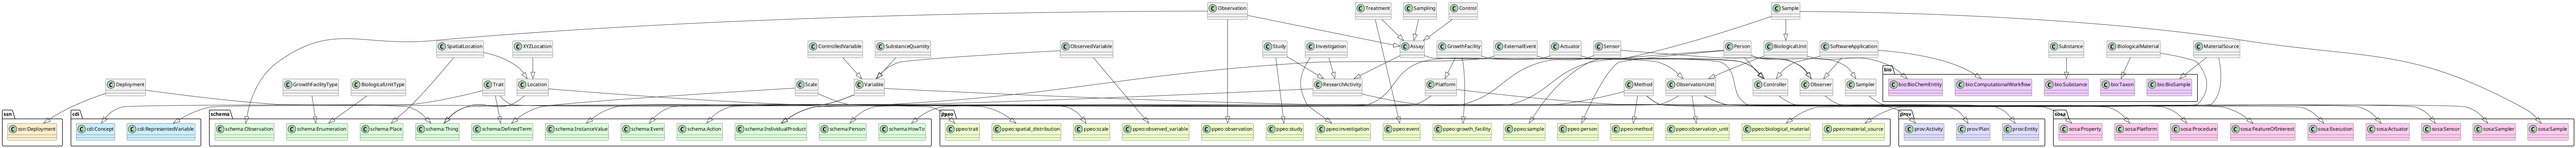
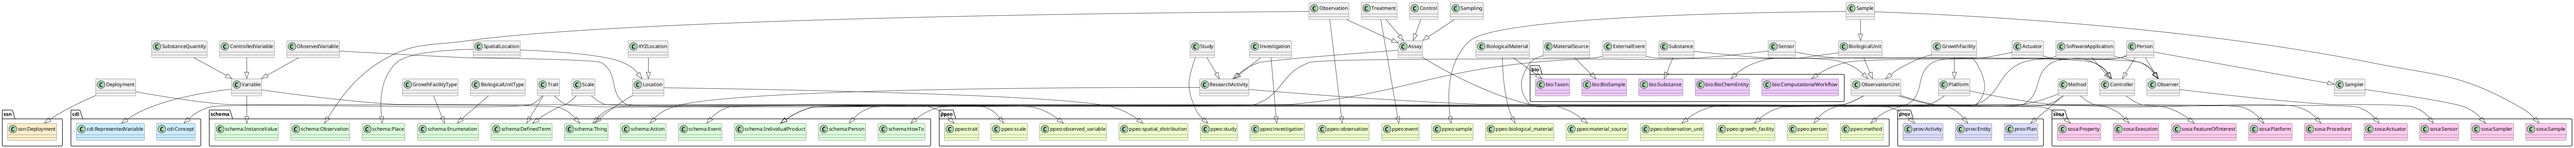
Substance as ObservationUnit

diff --git a/appn-schema.html b/appn-schema.html
@@ -130,7 +130,7 @@
         <h2 id="ObservationUnit">Class: ObservationUnit</h2>
         <div class="uri"><a href="https://schema.plantphenomics.org.au/ObservationUnit" target="_blank">https://schema.plantphenomics.org.au/ObservationUnit</a></div>
         <img src="image/ttl_appn_ObservationUnit.png"/>
-        <div class="description"><b>ObservationUnit:</b> An entity for which a Study collects data or controls the environment and other parameters. ObservationUnits may be BiologicalUnits or GrowthFacilities.</div>
+        <div class="description"><b>ObservationUnit:</b> An entity for which a Study collects data or controls the environment and other parameters. ObservationUnits may be BiologicalUnits, GrowthFacilities or Substances.</div>
         <h3>Superclasses</h3>
         <div class="parent"><a href="https://schema.org/Thing">https://schema.org/Thing</a></div>
         <div class="parent"><a href="http://www.w3.org/ns/prov#Entity">http://www.w3.org/ns/prov#Entity</a></div>
@@ -146,6 +146,7 @@
         <div class="property"><a href="#Location">Location</a> <b>isLocationWithin</b> ObservationUnit</div>
         <div class="description">&nbsp;&nbsp;&nbsp;&nbsp;Specifies that a location is a position within an ObservationUnit.</div>
         <h3>Subclasses</h3>
+        <div class="child"><a href="#Substance">Substance</a></div>
         <div class="child"><a href="#GrowthFacility">GrowthFacility</a></div>
         <div class="child"><a href="#BiologicalUnit">BiologicalUnit</a></div>
         <h2 id="Trait">Class: Trait</h2>
@@ -357,6 +358,7 @@
         <img src="image/ttl_appn_Substance.png"/>
         <div class="description"><b>Substance:</b> A biological or chemical entity used in a Treatment assay or referenced in a SubstanceQuantity.</div>
         <h3>Superclasses</h3>
+        <div class="parent"><a href="#ObservationUnit">ObservationUnit</a></div>
         <div class="parent"><a href="https://bioschemas.org/Substance">https://bioschemas.org/Substance</a></div>
         <h3>Properties</h3>
         <div class="property"><a href="#Treatment">Treatment</a> <b>treatsWith</b> Substance</div>

diff --git a/doc/appn_Substance.md b/doc/appn_Substance.md
@@ -6,6 +6,11 @@ A biological or chemical entity used in a Treatment assay or referenced in a Sub
 ![UML diagram for Substance](/ttl_uml/ttl_appn_Substance.png)
 
 ## Superclasses
+* [https://schema.plantphenomics.org.au/ObservationUnit](/doc/appn_ObservationUnit.md)
+* https://schema.org/Thing
+* http://www.w3.org/ns/prov#Entity
+* http://purl.org/ppeo/PPEO.owl#observation_unit
+* https://www.w3.org/ns/sosa/FeatureOfInterest
 * https://bioschemas.org/Substance
 ## Properties
 * [appn:Treatment](/doc/appn_Treatment.md) **appn:treatsWith** appn:Substance
@@ -16,3 +21,11 @@ A biological or chemical entity used in a Treatment assay or referenced in a Sub
     * Identifies a Substance or SubstanceQuantity included in the current Substance.
 * [appn:SubstanceQuantity](/doc/appn_SubstanceQuantity.md) **appn:isOfSubstance** appn:Substance
     * Identifies the Substance associated with a SubstanceQuantity. This represents the biological or chemical substance applied to the ObservationUnit by a Treatment.
+* [appn:Assay](/doc/appn_Assay.md) **appn:isForObservationUnit** [appn:ObservationUnit](/doc/appn_ObservationUnit.md)
+    * Relates an Assay to an ObservationUnit for which it is carried out. Note that when the Assay is an Observation, the model should infer a schema:observationAbout property from isForObservationUnit.
+* [appn:ObservationUnit](/doc/appn_ObservationUnit.md) **appn:inheritsContext** [appn:ObservationUnit](/doc/appn_ObservationUnit.md)
+    * Indicates an ObservationUnit should be considered to inherit values for Variables from another ObservationUnit. Examples include a plant inheriting environmental variables from a pot, growth cabinet or field or a leaf inheriting environmental and developmental properties from a plant.
+* [appn:ObservationUnit](/doc/appn_ObservationUnit.md) **appn:hasLocation** [appn:Location](/doc/appn_Location.md)
+    * Specifies the location for an ObservationUnit.
+* [appn:Location](/doc/appn_Location.md) **appn:isLocationWithin** [appn:ObservationUnit](/doc/appn_ObservationUnit.md)
+    * Specifies that a location is a position within an ObservationUnit.

diff --git a/doc/appn_ObservationUnit.md b/doc/appn_ObservationUnit.md
@@ -1,7 +1,7 @@
 # ObservationUnit
 [https://schema.plantphenomics.org.au/ObservationUnit](https://schema.plantphenomics.org.au/ObservationUnit)
 
-An entity for which a Study collects data or controls the environment and other parameters. ObservationUnits may be BiologicalUnits or GrowthFacilities.
+An entity for which a Study collects data or controls the environment and other parameters. ObservationUnits may be BiologicalUnits, GrowthFacilities or Substances.
 
 ![UML diagram for ObservationUnit](/ttl_uml/ttl_appn_ObservationUnit.png)
 
@@ -20,6 +20,7 @@ An entity for which a Study collects data or controls the environment and other 
 * [appn:Location](/doc/appn_Location.md) **appn:isLocationWithin** appn:ObservationUnit
     * Specifies that a location is a position within an ObservationUnit.
 ## Subclasses
+* [https://schema.plantphenomics.org.au/Substance](/doc/appn_Substance.md)
 * [https://schema.plantphenomics.org.au/GrowthFacility](/doc/appn_GrowthFacility.md)
 * [https://schema.plantphenomics.org.au/BiologicalUnit](/doc/appn_BiologicalUnit.md)
 * [https://schema.plantphenomics.org.au/Sample](/doc/appn_Sample.md)
